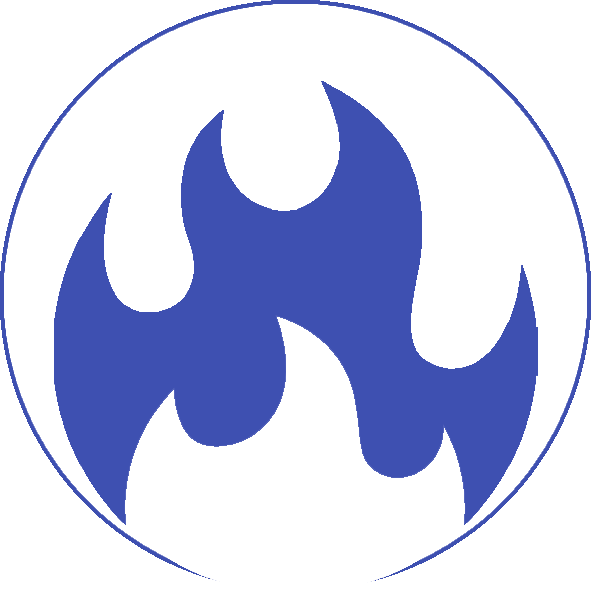
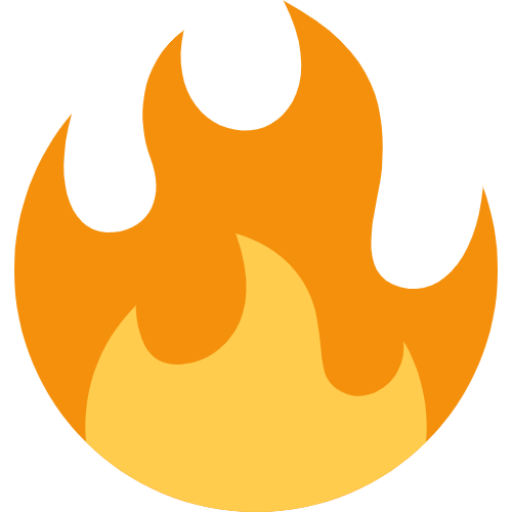
Remove PWA and update to flame emoji

diff --git a/nuxt.config.js b/nuxt.config.js
@@ -18,7 +18,7 @@ export default {
   asyncScripts: true,
 
   // Global page headers (https://go.nuxtjs.dev/config-head)
-  head: generateHeadTags('Nuxt PWA Vuetify Optimized', 'welcome', null, false),
+  head: generateHeadTags('Nuxt Vuetify Optimized', 'welcome', null, false),
   css: [
     '~/assets/css/global.css',
   ],
@@ -36,15 +36,6 @@ export default {
   ],
   sitemap: {
     hostname: 'https://DOMAIN_NAME.com',
-  },
-  pwa: {
-    manifest: {
-      name: 'Confessions',
-      short_name: 'B & H',
-    },
-    meta: {
-      theme_color: secondaryColor
-    }
   },
   axios: {},
   vuetify: {
